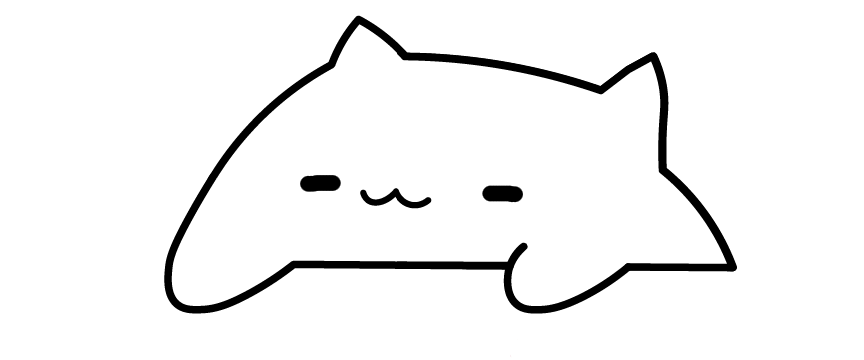
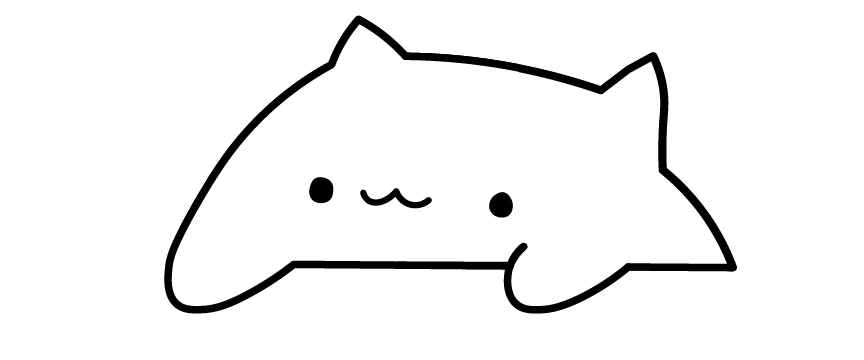
fix: sleeping bongocat
* fix build with and without svg

diff --git a/src/graphics/animation_init.cpp b/src/graphics/animation_init.cpp
@@ -2,7 +2,7 @@
 #include "graphics/animation_thread_context.h"
 #include "platform/wayland.h"
 #include "utils/memory.h"
-
+#include "utils/system_error.h"
 #include <cassert>
 #include <sys/eventfd.h>
 
@@ -42,7 +42,6 @@
 #include "image_loader/pen20/load_images_pen20.h"
 #include "image_loader/pkmn/load_images_pkmn.h"
 #include "image_loader/pmd/load_images_pmd.h"
-#include "utils/system_error.h"
 
 namespace bongocat::animation {
 [[maybe_unused]] static constexpr bool should_load_bongocat([[maybe_unused]] const config::config_t& config) {
@@ -285,7 +284,7 @@ animation_t& get_current_animation(animation_thread_context_t& ctx) {
   case config::config_animation_sprite_sheet_layout_t::None:
     return none_sprite_sheet;
   case config::config_animation_sprite_sheet_layout_t::Bongocat: {
-    if (features::EnableLazyLoadAssets) {
+    if constexpr (features::EnableLazyLoadAssets) {
       assert(anim_shm.anim.type == animation_t::type_t::Bongocat);
       return anim_shm.anim;
     }
@@ -299,7 +298,7 @@ animation_t& get_current_animation(animation_thread_context_t& ctx) {
     case config::config_animation_dm_set_t::None:
       return none_sprite_sheet;
     case config::config_animation_dm_set_t::min_dm:
-      if (features::EnableLazyLoadAssets) {
+      if constexpr (features::EnableLazyLoadAssets) {
         assert(anim_shm.anim.type == animation_t::type_t::Dm);
         return anim_shm.anim;
       }
@@ -308,7 +307,7 @@ animation_t& get_current_animation(animation_thread_context_t& ctx) {
                  ? anim_shm.min_dm_anims[static_cast<size_t>(anim_index)]
                  : none_sprite_sheet;
     case config::config_animation_dm_set_t::dm:
-      if (features::EnableLazyLoadAssets) {
+      if constexpr (features::EnableLazyLoadAssets) {
         assert(anim_shm.anim.type == animation_t::type_t::Dm);
         return anim_shm.anim;
       }
@@ -316,7 +315,7 @@ animation_t& get_current_animation(animation_thread_context_t& ctx) {
                  ? anim_shm.dm_anims[static_cast<size_t>(anim_index)]
                  : none_sprite_sheet;
     case config::config_animation_dm_set_t::dm20:
-      if (features::EnableLazyLoadAssets) {
+      if constexpr (features::EnableLazyLoadAssets) {
         assert(anim_shm.anim.type == animation_t::type_t::Dm);
         return anim_shm.anim;
       }
@@ -325,7 +324,7 @@ animation_t& get_current_animation(animation_thread_context_t& ctx) {
                  ? anim_shm.dm20_anims[static_cast<size_t>(anim_index)]
                  : none_sprite_sheet;
     case config::config_animation_dm_set_t::dmx:
-      if (features::EnableLazyLoadAssets) {
+      if constexpr (features::EnableLazyLoadAssets) {
         assert(anim_shm.anim.type == animation_t::type_t::Dm);
         return anim_shm.anim;
       }
@@ -334,7 +333,7 @@ animation_t& get_current_animation(animation_thread_context_t& ctx) {
                  ? anim_shm.dmx_anims[static_cast<size_t>(anim_index)]
                  : none_sprite_sheet;
     case config::config_animation_dm_set_t::pen:
-      if (features::EnableLazyLoadAssets) {
+      if constexpr (features::EnableLazyLoadAssets) {
         assert(anim_shm.anim.type == animation_t::type_t::Dm);
         return anim_shm.anim;
       }
@@ -342,7 +341,7 @@ animation_t& get_current_animation(animation_thread_context_t& ctx) {
                  ? anim_shm.pen_anims[static_cast<size_t>(anim_index)]
                  : none_sprite_sheet;
     case config::config_animation_dm_set_t::pen20:
-      if (features::EnableLazyLoadAssets) {
+      if constexpr (features::EnableLazyLoadAssets) {
         assert(anim_shm.anim.type == animation_t::type_t::Dm);
         return anim_shm.anim;
       }
@@ -351,7 +350,7 @@ animation_t& get_current_animation(animation_thread_context_t& ctx) {
                  ? anim_shm.pen20_anims[static_cast<size_t>(anim_index)]
                  : none_sprite_sheet;
     case config::config_animation_dm_set_t::dmc:
-      if (features::EnableLazyLoadAssets) {
+      if constexpr (features::EnableLazyLoadAssets) {
         assert(anim_shm.anim.type == animation_t::type_t::Dm);
         return anim_shm.anim;
       }
@@ -360,7 +359,7 @@ animation_t& get_current_animation(animation_thread_context_t& ctx) {
                  ? anim_shm.dmc_anims[static_cast<size_t>(anim_index)]
                  : none_sprite_sheet;
     case config::config_animation_dm_set_t::dmall:
-      if (features::EnableLazyLoadAssets) {
+      if constexpr (features::EnableLazyLoadAssets) {
         assert(anim_shm.anim.type == animation_t::type_t::Dm);
         return anim_shm.anim;
       }
@@ -371,7 +370,7 @@ animation_t& get_current_animation(animation_thread_context_t& ctx) {
     }
   } break;
   case config::config_animation_sprite_sheet_layout_t::Pkmn:
-    if (features::EnableLazyLoadAssets) {
+    if constexpr (features::EnableLazyLoadAssets) {
       assert(anim_shm.anim.type == animation_t::type_t::Pkmn);
       return anim_shm.anim;
     }
@@ -380,7 +379,7 @@ animation_t& get_current_animation(animation_thread_context_t& ctx) {
                ? anim_shm.pkmn_anims[static_cast<size_t>(anim_index)]
                : none_sprite_sheet;
   case config::config_animation_sprite_sheet_layout_t::MsAgent:
-    if (features::EnableLazyLoadAssets) {
+    if constexpr (features::EnableLazyLoadAssets) {
       assert(anim_shm.anim.type == animation_t::type_t::MsAgent);
       return anim_shm.anim;
     }
@@ -393,7 +392,7 @@ animation_t& get_current_animation(animation_thread_context_t& ctx) {
     case config::config_animation_custom_set_t::None:
       break;
     case config::config_animation_custom_set_t::misc:
-      if (features::EnableLazyLoadAssets) {
+      if constexpr (features::EnableLazyLoadAssets) {
         assert(anim_shm.anim.type == animation_t::type_t::Custom);
         return anim_shm.anim;
       }
@@ -403,7 +402,7 @@ animation_t& get_current_animation(animation_thread_context_t& ctx) {
                  : none_sprite_sheet;
       break;
     case config::config_animation_custom_set_t::pmd:
-      if (features::EnableLazyLoadAssets) {
+      if constexpr (features::EnableLazyLoadAssets) {
         assert(anim_shm.anim.type == animation_t::type_t::Custom);
         return anim_shm.anim;
       }
@@ -413,7 +412,7 @@ animation_t& get_current_animation(animation_thread_context_t& ctx) {
                  : none_sprite_sheet;
       break;
     case config::config_animation_custom_set_t::custom:
-      if (features::EnableLazyLoadAssets) {
+      if constexpr (features::EnableLazyLoadAssets) {
         assert(anim_shm.anim.type == animation_t::type_t::Custom);
         return anim_shm.anim;
       }
@@ -501,10 +500,11 @@ created_result_t<AllocatedMemory<animation_context_t>> create(const config::conf
 
         if constexpr (features::EnableBongocatSvg) {
           init_bongocat_anim(ctx, BONGOCAT_ANIM_INDEX, get_bongocat_sprite_svg, BONGOCAT_EMBEDDED_IMAGES_COUNT,
-                             load_bongocat_anim_type_t::SVG, anim_bongocat_get_svg_params(ret->thread_context._local_copy_config->cat_height));
+                             load_bongocat_anim_type_t::SVG,
+                             anim_bongocat_get_svg_params(ret->thread_context._local_copy_config->cat_height));
         } else {
           init_bongocat_anim(ctx, BONGOCAT_ANIM_INDEX, get_bongocat_sprite, BONGOCAT_EMBEDDED_IMAGES_COUNT,
-                             load_bongocat_anim_type_t::PNG, {0,0,0,0});
+                             load_bongocat_anim_type_t::PNG, {0, 0, 0, 0});
         }
       }
     }

diff --git a/include/image_loader/load_svgs.h b/include/image_loader/load_svgs.h
@@ -7,10 +7,8 @@
 #include "embedded_assets/embedded_image.h"
 #include "graphics/sprite_sheet.h"
 #include "utils/memory.h"
-#ifdef FEATURE_USE_RASTER_IMAGE_LOADER
 #include "load_images.h"
 #include <nanosvgrast.h>
-#endif
 #include <nanosvg.h>
 #include <cstdlib>
 #include <cstdint>
@@ -20,15 +18,11 @@ namespace bongocat::animation {
 // SVG LOADING MODULE
 // =============================================================================
 
-constexpr static inline const char* SVG_UNITS = "px";
-constexpr static inline float SVG_DPI = 96.0;
-
 class SvgImage;
 BONGOCAT_NODISCARD created_result_t<SvgImage> load_svg(char *data, const char* units, float dpi);
 void cleanup_svg(SvgImage& image);
 void init_svg_loader();
 
-#ifdef FEATURE_USE_RASTER_IMAGE_LOADER
 class SvgRasterImage;
 void cleanup_svg_raster(SvgRasterImage& image);
 BONGOCAT_NODISCARD created_result_t<SvgRasterImage> create_svg_rasterizer();
@@ -42,7 +36,6 @@ struct LoadSvgImageParams {
   uint32_t alpha_mask{0};
 };
 BONGOCAT_NODISCARD created_result_t<Image> load_svg_image(SvgImage& svg, LoadSvgImageParams params);
-#endif
 
 class SvgImage {
 public:
@@ -84,7 +77,6 @@ public:
   }
 };
 
-#ifdef FEATURE_USE_RASTER_IMAGE_LOADER
 class SvgRasterImage {
 public:
   NSVGrasterizer *image{BONGOCAT_NULLPTR};
@@ -129,8 +121,5 @@ struct anim_sprite_sheet_from_embedded_svgs_t {
 BONGOCAT_NODISCARD created_result_t<generic_sprite_sheet_t>
 anim_sprite_sheet_from_embedded_svgs(get_sprite_callback_t get_sprite, size_t embedded_images_count, anim_sprite_sheet_from_embedded_svgs_t svg_params);
 
-#endif
-
 }  // namespace bongocat::animation
-
 #endif

diff --git a/src/image_loader/bongocat/load_images_bongocat.cpp b/src/image_loader/bongocat/load_images_bongocat.cpp
@@ -7,7 +7,6 @@
 #include "image_loader/load_images.h"
 #include "image_loader/load_svgs.h"
 #include "utils/memory.h"
-
 #include <cassert>
 
 namespace bongocat::animation {
@@ -21,7 +20,12 @@ load_bongocat_anim([[maybe_unused]] int anim_index, get_sprite_callback_t get_sp
       case load_bongocat_anim_type_t::SVG:
         assert(svg_params.target_w >= 0);
         assert(svg_params.target_h >= 0);
+#ifdef FEATURE_USE_BONGOCAT_SVG
         return anim_sprite_sheet_from_embedded_svgs(get_sprite, embedded_images_count, svg_params);
+#else
+      BONGOCAT_LOG_WARNING("load_bongocat_anim: SVG not supported");
+      break;
+#endif
       case load_bongocat_anim_type_t::PNG:
         return anim_sprite_sheet_from_embedded_images(get_sprite, embedded_images_count);
     }
@@ -41,6 +45,7 @@ load_bongocat_anim([[maybe_unused]] int anim_index, get_sprite_callback_t get_sp
   ret.left_down = bongocat::move(sprite_sheet.frames[1]);
   ret.right_down = bongocat::move(sprite_sheet.frames[2]);
   ret.both_down = bongocat::move(sprite_sheet.frames[3]);
+  ret.sleeping = bongocat::move(sprite_sheet.frames[4]);
   sprite_sheet = {}; // generic sprite has been moved
 
   // setup animations (cache)
@@ -50,8 +55,9 @@ load_bongocat_anim([[maybe_unused]] int anim_index, get_sprite_callback_t get_sp
   assert(ret.left_down.valid);
   assert(ret.right_down.valid);
   assert(ret.both_down.valid);
+  assert(ret.sleeping.valid);
 
-  assert(MAX_ANIMATION_FRAMES >= 4);
+  static_assert(MAX_ANIMATION_FRAMES >= 4);
   ret.animations.idle[0] = BONGOCAT_FRAME_BOTH_UP;
   ret.animations.idle[1] = BONGOCAT_FRAME_BOTH_UP;
   ret.animations.idle[2] = BONGOCAT_FRAME_BOTH_UP;

diff --git a/include/embedded_assets/bongocat/bongocat_images.h b/include/embedded_assets/bongocat/bongocat_images.h
@@ -16,7 +16,10 @@ extern const size_t bongo_cat_right_down_png_size;
 extern const unsigned char bongo_cat_both_down_png[];
 extern const size_t bongo_cat_both_down_png_size;
 
-#ifdef FEATURE_USE_BONGOCAT_SVG
+extern const unsigned char bongo_cat_sleeping_png[];
+extern const size_t bongo_cat_sleeping_png_size;
+
+
 // Embedded asset data (new svg files)
 extern const unsigned char bongo_cat_both_up_svg[];
 extern const size_t bongo_cat_both_up_svg_size;
@@ -33,5 +36,3 @@ extern const size_t bongo_cat_both_down_svg_size;
 extern const unsigned char bongo_cat_sleeping_svg[];
 extern const size_t bongo_cat_sleeping_svg_size;
 #endif
-
-#endif  // BONGOCAT_EMBEDDED_ASSETS_BONGOCAT_IMAGES_H

diff --git a/src/embedded_assets/bongocat/bongocat_images.c b/src/embedded_assets/bongocat/bongocat_images.c
@@ -23,8 +23,12 @@ const unsigned char bongo_cat_both_down_png[] = {
 };
 const size_t bongo_cat_both_down_png_size = sizeof(bongo_cat_both_down_png);
 
+const unsigned char bongo_cat_sleeping_png[] = {
+#embed "../../../assets/bongo-cat-sleeping.png"
+};
+const size_t bongo_cat_sleeping_png_size = sizeof(bongo_cat_sleeping_png);
 
-#ifdef FEATURE_USE_BONGOCAT_SVG
+
 // Embedded asset data (svg)
 const unsigned char bongo_cat_both_up_svg[] = {
 #embed "../../../assets/new/bongo-both-up.svg"
@@ -50,4 +54,3 @@ const unsigned char bongo_cat_sleeping_svg[] = {
 #embed "../../../assets/new/bongo-sleeping.svg"
 };
 const size_t bongo_cat_sleeping_svg_size = sizeof(bongo_cat_sleeping_svg);
-#endif

diff --git a/src/image_loader/load_svgs.cpp b/src/image_loader/load_svgs.cpp
@@ -1,7 +1,5 @@
 #include "image_loader/load_svgs.h"
-#ifdef FEATURE_USE_RASTER_IMAGE_LOADER
 #include "image_loader/load_images.h"
-#endif
 #include "graphics/animation.h"
 #include "graphics/drawing.h"
 #include "utils/memory.h"
@@ -15,6 +13,9 @@ namespace bongocat::animation {
 // =============================================================================
 // SVG LOADING MODULE
 // =============================================================================
+
+constexpr static inline const char* SVG_UNITS = "px";
+constexpr static inline float SVG_DPI = 96.0;
 
 void init_svg_loader() {}
 
@@ -44,7 +45,6 @@ void cleanup_svg_raster(SvgRasterImage& image) {
   image.image = BONGOCAT_NULLPTR;
 }
 
-
 BONGOCAT_NODISCARD created_result_t<SvgRasterImage> create_svg_rasterizer() {
   SvgRasterImage ret;
   if (ret.image == BONGOCAT_NULLPTR) [[unlikely]] {
@@ -53,6 +53,7 @@ BONGOCAT_NODISCARD created_result_t<SvgRasterImage> create_svg_rasterizer() {
 
   return ret;
 }
+
 
 created_result_t<Image> load_svg_image(SvgImage& svg, LoadSvgImageParams params) {
   BONGOCAT_CHECK_ERROR(params.w < 0, bongocat_error_t::BONGOCAT_ERROR_SVG, "svg image width can not be zero nor negative");

diff --git a/include/graphics/sprite_sheet.h b/include/graphics/sprite_sheet.h
@@ -7,7 +7,7 @@
 
 namespace bongocat::animation {
 // bongocat: both-up, left-down, right-down, both-down
-inline static constexpr size_t BONGOCAT_NUM_FRAMES = 4;
+inline static constexpr size_t BONGOCAT_NUM_FRAMES = 5;
 // dm: Idle 1, Idle 2, Angry, Down1, Happy, Eat1, Sleep1, Refuse, Down2 ~~, Eat2, Sleep2, Attack~~
 inline static constexpr size_t MAX_DIGIMON_FRAMES = 16;
 // pkmn: Idle 1, Idle 2
@@ -17,7 +17,8 @@ inline static constexpr size_t MAX_PKMN_FRAMES = 2;
 inline static constexpr size_t MAX_NUM_FRAMES = 16;
 
 inline static constexpr size_t MAX_ANIMATION_FRAMES = 4;
-// @NOTE: MS agents can have more frames per row and are more custom
+// @NOTE: MS agents and custom sprite sheets can have more frames per row, this is only the default for embedded sprite
+// sheets
 
 struct sprite_sheet_animation_frame_t {
   bool valid{false};
@@ -119,6 +120,7 @@ struct bongocat_sprite_sheet_t {
   sprite_sheet_animation_frame_t left_down;
   sprite_sheet_animation_frame_t right_down;
   sprite_sheet_animation_frame_t both_down;
+  sprite_sheet_animation_frame_t sleeping;
 
   bongocat_sprite_sheet_animations_t animations;
 };

diff --git a/src/graphics/animation.cpp b/src/graphics/animation.cpp
@@ -769,7 +769,8 @@ anim_bongocat_idle_next_frame(animation_thread_context_t& ctx, const platform::i
 
   // Start Test animation
   if (!conditions.any_key_pressed && conditions.trigger_test_animation &&
-      current_state.row_state == animation_state_row_t::Idle) {
+      (current_state.row_state == animation_state_row_t::Idle ||
+       current_state.row_state == animation_state_row_t::IdleSleep)) {
     anim_bongocat_restart_animation(ctx, input, animation_state_row_t::Test, new_animation_result, new_state,
                                     current_state, current_frames);
   } else if (!conditions.any_key_pressed && conditions.trigger_test_animation &&

diff --git a/src/graphics/bar.cpp b/src/graphics/bar.cpp
@@ -93,6 +93,9 @@ void draw_sprite(platform::wayland::wayland_context_t& ctx, platform::wayland::w
   case BONGOCAT_FRAME_BOTH_DOWN:
     region = &sheet.both_down;
     break;
+  case BONGOCAT_FRAME_SLEEPING:
+    region = &sheet.sleeping;
+    break;
   default:
     assert(anim_shm.animation_player_result.sprite_sheet_col >= 0 &&
            static_cast<size_t>(anim_shm.animation_player_result.sprite_sheet_col) < BONGOCAT_SPRITE_SHEET_COLS);

diff --git a/include/embedded_assets/bongocat/bongocat.h b/include/embedded_assets/bongocat/bongocat.h
@@ -40,9 +40,7 @@ BONGOCAT_NODISCARD extern embedded_image_t get_bongocat_sprite(size_t i);
 BONGOCAT_NODISCARD extern created_result_t<animation::generic_sprite_sheet_t>
 get_bongocat_sprite_sheet(const animation::animation_thread_context_t& ctx, int index);
 
-#ifdef FEATURE_USE_BONGOCAT_SVG
 BONGOCAT_NODISCARD extern embedded_image_t get_bongocat_sprite_svg(size_t i);
-#endif
 }  // namespace bongocat::assets
 
 #endif  // BONGOCAT_EMBEDDED_ASSETS_BONGOCAT_H

diff --git a/src/embedded_assets/bongocat/bongocat_get_sprite_sheet.cpp b/src/embedded_assets/bongocat/bongocat_get_sprite_sheet.cpp
@@ -15,7 +15,7 @@ embedded_image_t get_bongocat_sprite(size_t i) {
   case BONGOCAT_FRAME_BOTH_DOWN:
     return {bongo_cat_both_down_png, bongo_cat_both_down_png_size, "bongo-cat-both-down"};
   case BONGOCAT_FRAME_SLEEPING:
-    return {bongo_cat_both_down_png, bongo_cat_both_down_png_size, "bongo-cat-both-down"};
+    return {bongo_cat_sleeping_png, bongo_cat_sleeping_png_size, "bongo-cat-sleeping"};
   default:
     return {};
   }

diff --git a/src/image_loader/load_images.cpp b/src/image_loader/load_images.cpp
@@ -1,7 +1,5 @@
 #include "image_loader/load_images.h"
-#ifdef FEATURE_USE_BONGOCAT_SVG
 #include "image_loader/load_svgs.h"
-#endif
 #include "graphics/animation.h"
 #include "graphics/animation_thread_context.h"
 #include "graphics/drawing.h"